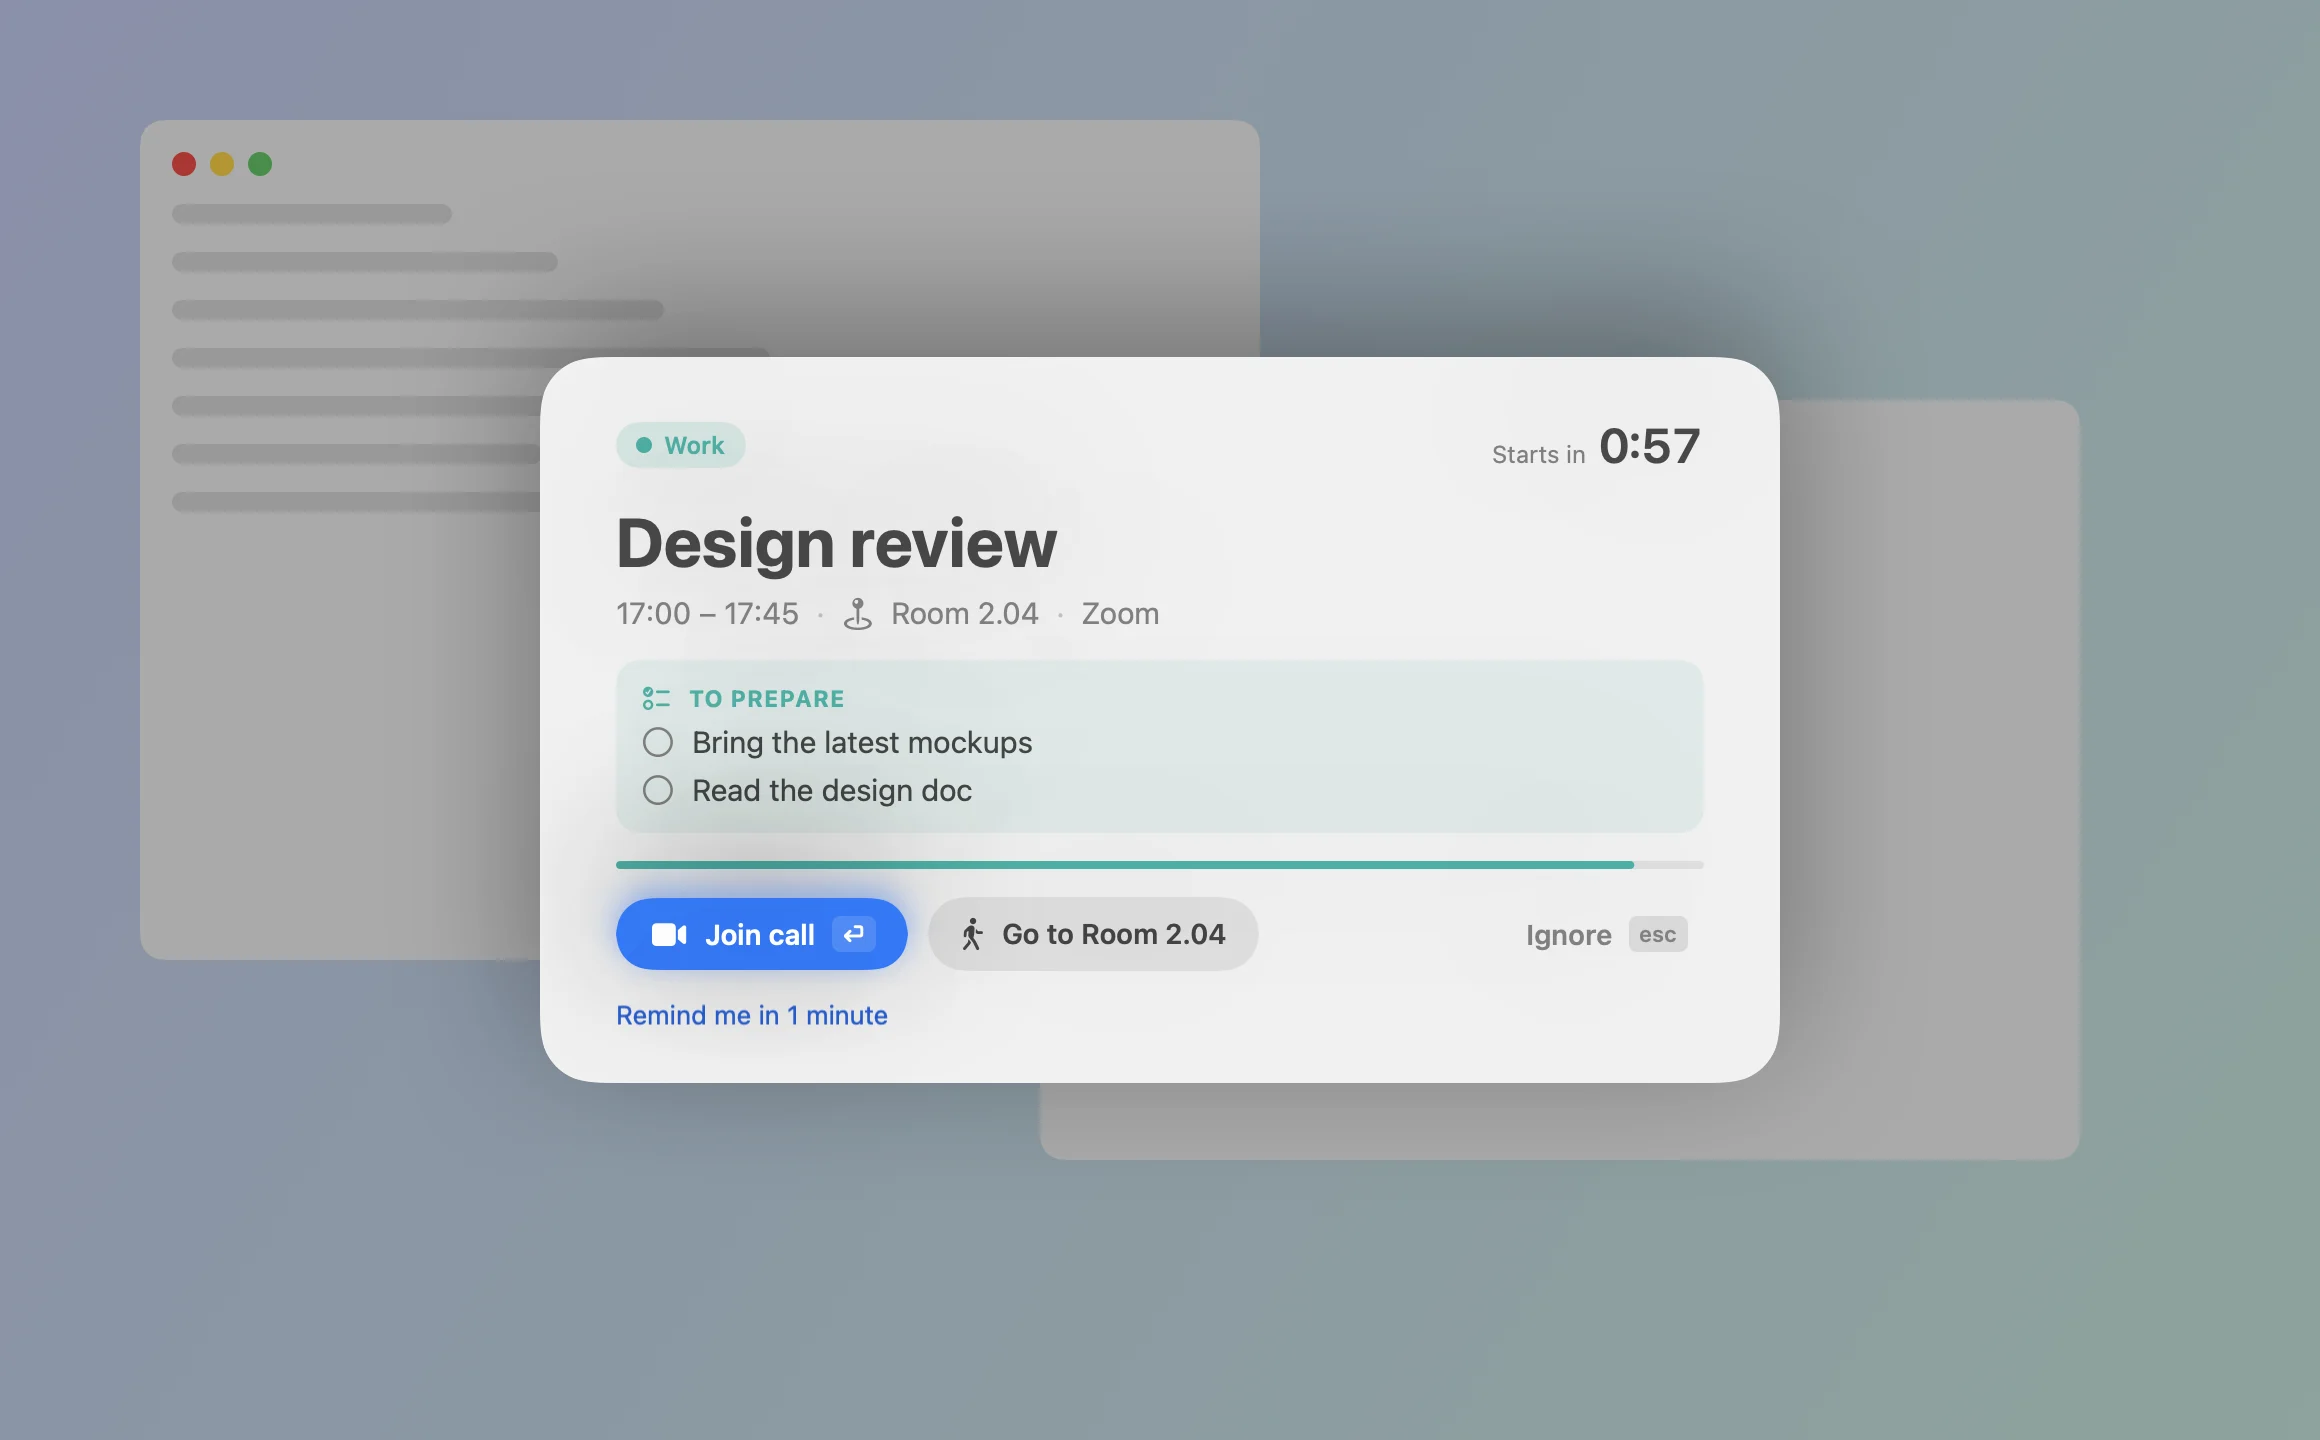
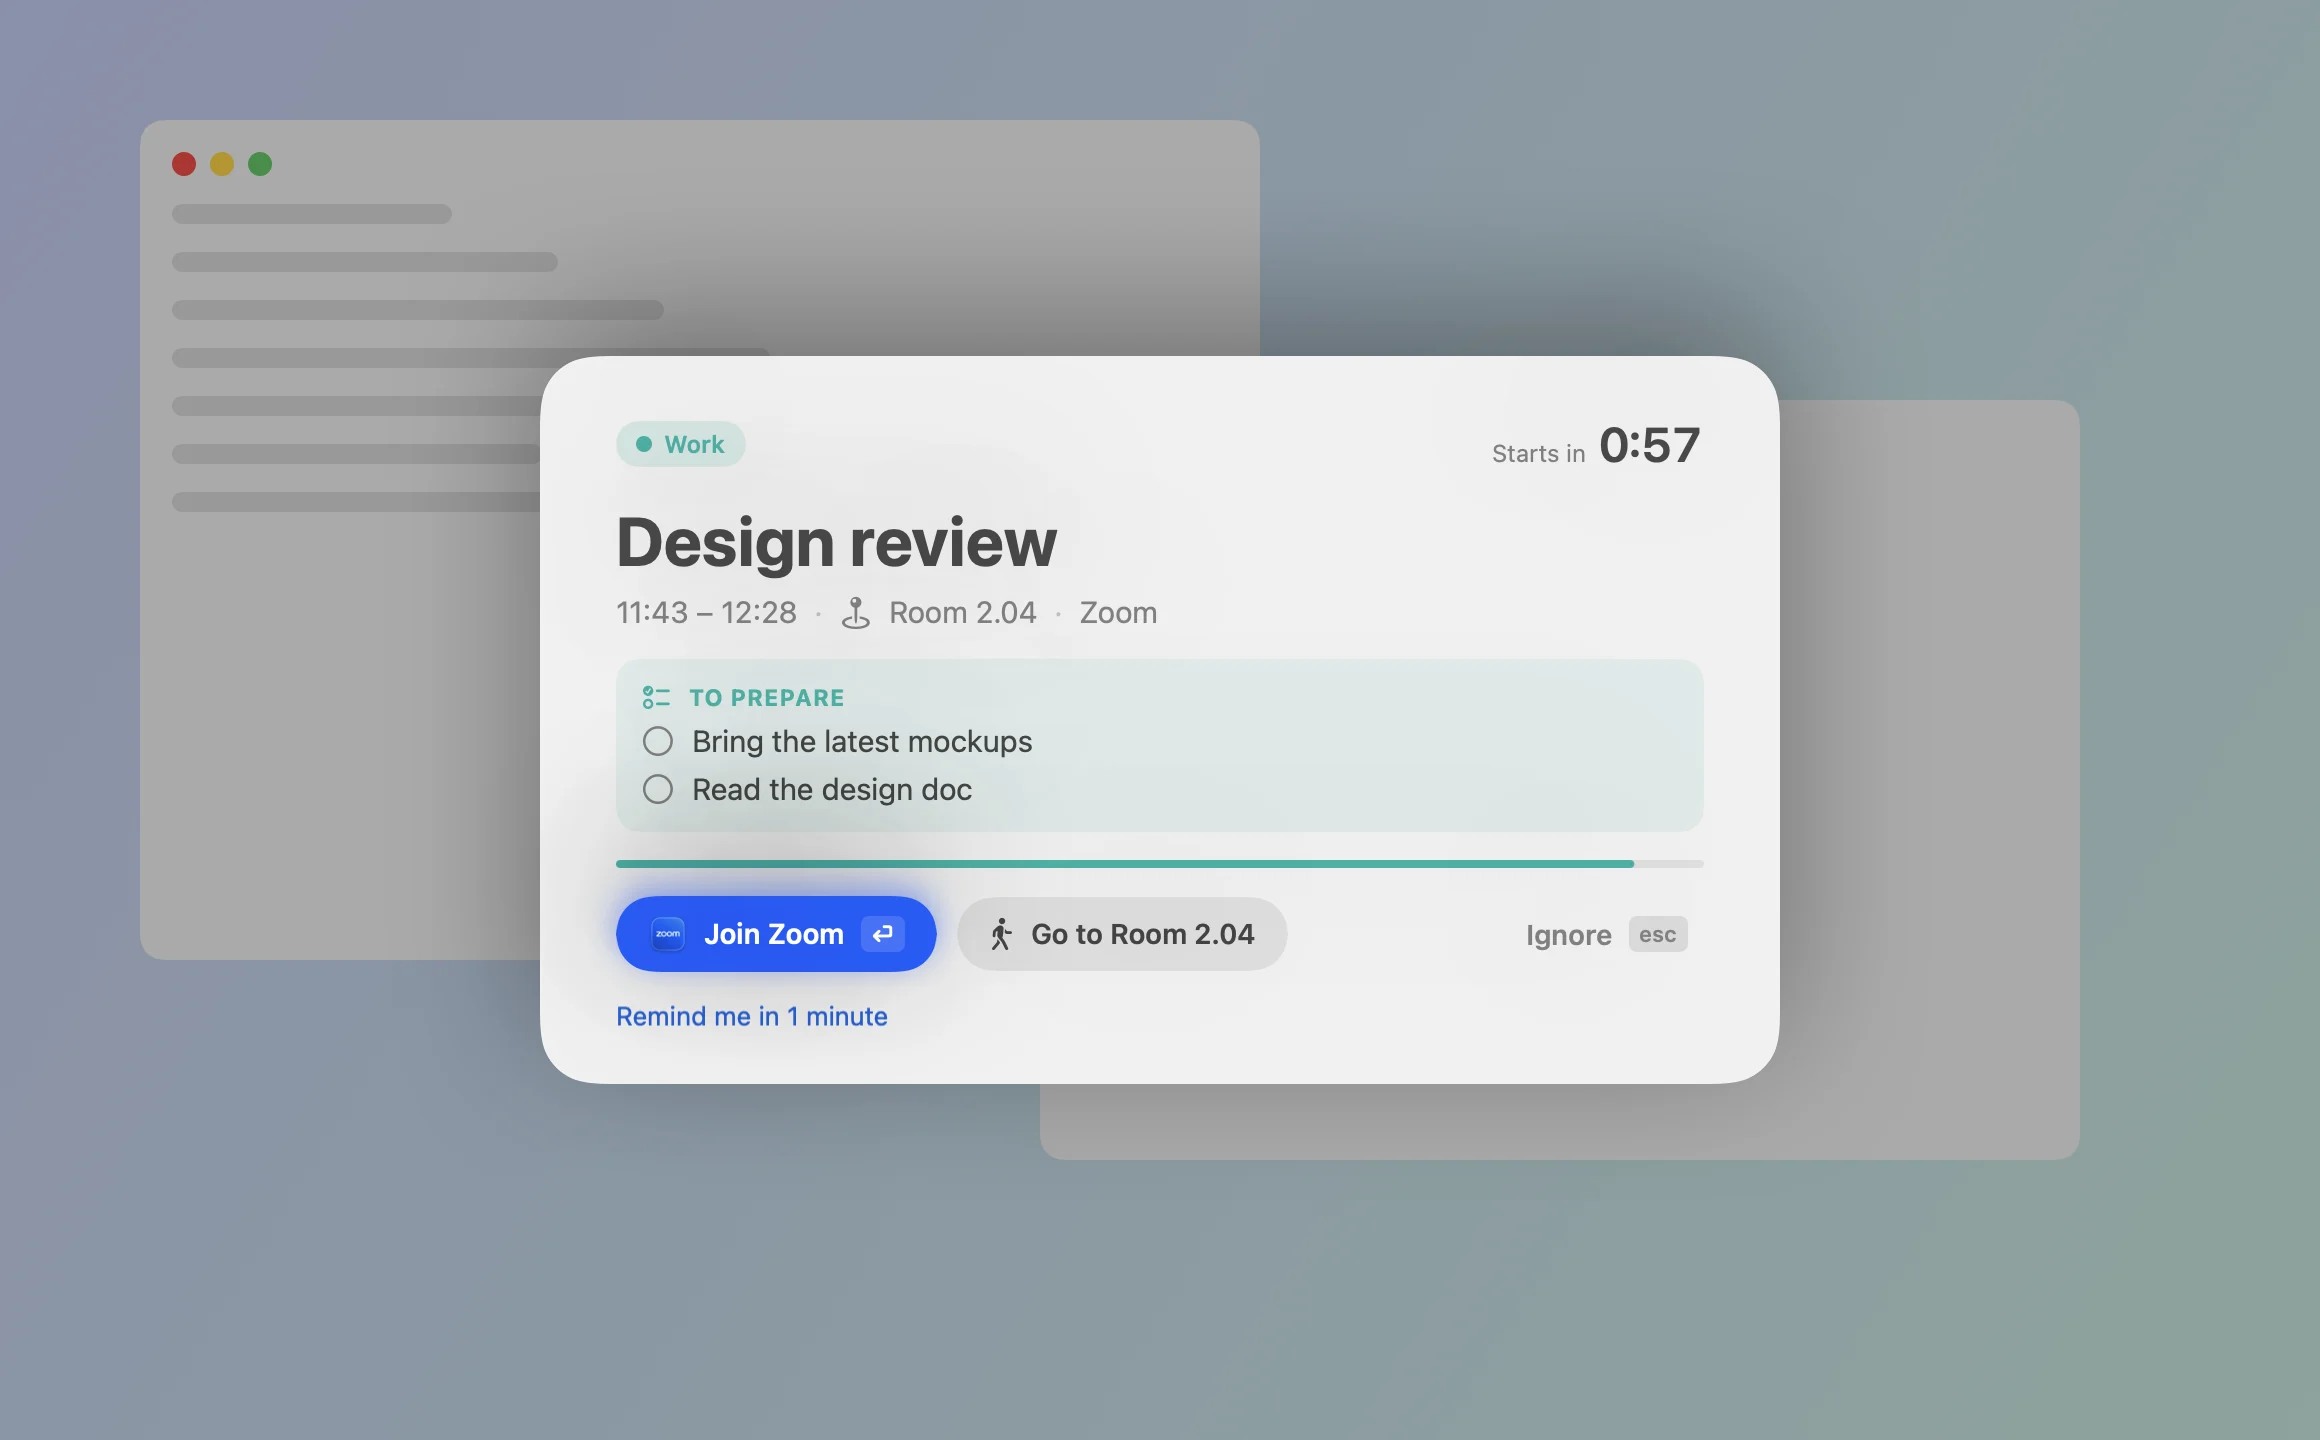
2.0.26: the alert's Join button in the meeting app's colors
The full-screen alert's Join button takes the color of the meeting's
service (Zoom blue, Teams purple, Google Meet yellow, Webex, GoTo Meeting,
Chime, Whereby, Jitsi), shows the service's app icon when it's installed
(a symbol otherwise) and names the service ("Join Zoom"). Text is black or
white, whichever reads better on the color. Other links keep the
accent-colored "Join call" button.

Changed region(s): [[0.2483, 0.5938, 0.5586, 0.6875], [0.2793, 0.375, 0.4966, 0.4375], [0.2793, 0.5, 0.4345, 0.5625]]

diff --git a/Sources/CalendarHub/EventAlertController.swift b/Sources/CalendarHub/EventAlertController.swift
@@ -335,15 +335,7 @@ struct EventAlertView: View {
 
             HStack(spacing: 10) {
                 if let url = event.meetingURL {
-                    Button {
-                        NSWorkspace.shared.open(url)
-                        dismiss()
-                    } label: {
-                        Label("Join call", systemImage: "video.fill")
-                        KeyCap("⏎")
-                    }
-                    .buttonStyle(AlertButtonStyle(prominent: true))
-                    .keyboardShortcut(.defaultAction)
+                    AlertJoinButton(url: url, dismiss: dismiss)
                     if let room {
                         Button(action: dismiss) {
                             Label("Go to \(room)", systemImage: "figure.walk").lineLimit(1)
@@ -495,21 +487,71 @@ private struct KeyCap: View {
     }
 }
 
-/// The alert's large, rounded buttons: filled in the accent color for the main action, gray
-/// for the others, and text only for Ignore.
+/// Join, in the colors of the meeting's service (Zoom blue, Teams purple, Meet yellow, …) with
+/// its app's icon, or in the accent color with a camera for any other link.
+private struct AlertJoinButton: View {
+    let url: URL
+    let dismiss: () -> Void
+
+    private var service: MeetingService? { MeetingService.of(url) }
+
+    var body: some View {
+        Button {
+            NSWorkspace.shared.open(url)
+            dismiss()
+        } label: {
+            Label {
+                Text(service.map { "Join \($0.name)" } ?? "Join call")
+            } icon: {
+                if let service, let icon = Self.appIcon(for: service) {
+                    Image(nsImage: icon).resizable().frame(width: 20, height: 20)
+                } else {
+                    Image(systemName: service?.symbol ?? "video.fill")
+                }
+            }
+            KeyCap("⏎")
+        }
+        .buttonStyle(AlertButtonStyle(prominent: true, fill: service.map { Color(rgb: $0.color) } ?? .accentColor,
+                                      text: service?.prefersDarkText == true ? .black : .white))
+        .keyboardShortcut(.defaultAction)
+    }
+
+    /// The icon of the first of the service's apps that's installed.
+    private static func appIcon(for service: MeetingService) -> NSImage? {
+        for id in service.bundleIDs {
+            if let app = NSWorkspace.shared.urlForApplication(withBundleIdentifier: id) {
+                return NSWorkspace.shared.icon(forFile: app.path)
+            }
+        }
+        return nil
+    }
+}
+
+private extension Color {
+    /// A color from 0xRRGGBB.
+    init(rgb: UInt32) {
+        self.init(.sRGB, red: Double((rgb >> 16) & 0xFF) / 255, green: Double((rgb >> 8) & 0xFF) / 255,
+                  blue: Double(rgb & 0xFF) / 255)
+    }
+}
+
+/// The alert's large, rounded buttons: filled for the main action (in the accent color unless
+/// given another), gray for the others, and text only for Ignore.
 private struct AlertButtonStyle: ButtonStyle {
     var prominent = false
     var plain = false
+    var fill: Color = .accentColor
+    var text: Color = .white
 
     func makeBody(configuration: Configuration) -> some View {
         HStack(spacing: 8) { configuration.label }
             .font(.system(size: 14, weight: .semibold))
-            .foregroundStyle(prominent ? AnyShapeStyle(.white) : plain ? AnyShapeStyle(.secondary) : AnyShapeStyle(.primary))
+            .foregroundStyle(prominent ? AnyShapeStyle(text) : plain ? AnyShapeStyle(.secondary) : AnyShapeStyle(.primary))
             .padding(.horizontal, plain ? 8 : 16)
             .padding(.vertical, 9)
             .background {
                 if prominent {
-                    Capsule().fill(Color.accentColor).shadow(color: Color.accentColor.opacity(0.45), radius: 8, y: 4)
+                    Capsule().fill(fill).shadow(color: fill.opacity(0.45), radius: 8, y: 4)
                 } else if !plain {
                     Capsule().fill(Color.primary.opacity(0.09))
                 }

diff --git a/Sources/CalendarHubCore/MeetingService.swift b/Sources/CalendarHubCore/MeetingService.swift
@@ -1,0 +1,96 @@
+import Foundation
+
+/// The online meeting service a link is for, so the alert's Join button can take on its
+/// colors and its app's icon.
+public enum MeetingService: String, CaseIterable, Sendable {
+    case zoom, teams, meet, webex, goTo, chime, whereby, jitsi
+
+    /// The service for a meeting link, or nil for a host none of these use.
+    public static func of(_ url: URL) -> MeetingService? {
+        let host = url.host?.lowercased() ?? ""
+        return allCases.first { service in
+            service.hosts.contains { host == $0 || host.hasSuffix("." + $0) }
+        }
+    }
+
+    var hosts: [String] {
+        switch self {
+        case .zoom: ["zoom.us", "zoomgov.com"]
+        case .teams: ["teams.microsoft.com", "teams.live.com"]
+        case .meet: ["meet.google.com"]
+        case .webex: ["webex.com"]
+        case .goTo: ["gotomeeting.com", "meet.goto.com"]
+        case .chime: ["chime.aws"]
+        case .whereby: ["whereby.com"]
+        case .jitsi: ["meet.jit.si"]
+        }
+    }
+
+    /// The name on the Join button: "Join Zoom", "Join Google Meet".
+    public var name: String {
+        switch self {
+        case .zoom: "Zoom"
+        case .teams: "Teams"
+        case .meet: "Google Meet"
+        case .webex: "Webex"
+        case .goTo: "GoTo Meeting"
+        case .chime: "Chime"
+        case .whereby: "Whereby"
+        case .jitsi: "Jitsi"
+        }
+    }
+
+    /// The service's brand color, as 0xRRGGBB.
+    public var color: UInt32 {
+        switch self {
+        case .zoom: 0x0B5CFF
+        case .teams: 0x5B5FC7
+        case .meet: 0xFBBC04
+        case .webex: 0x0072BB
+        case .goTo: 0xF68D2E
+        case .chime: 0x1F6FE0
+        case .whereby: 0xD6336C
+        case .jitsi: 0x1D76BA
+        }
+    }
+
+    /// Whether black text has more contrast on `color` than white (WCAG): Meet's yellow and
+    /// GoTo's orange are too light for white text.
+    public var prefersDarkText: Bool {
+        Self.relativeLuminance(color) > 0.179
+    }
+
+    /// The service's Mac apps, most likely first, whose icon goes on the button when one is
+    /// installed. Google Meet has none of its own, only Chrome's installable web app.
+    public var bundleIDs: [String] {
+        switch self {
+        case .zoom: ["us.zoom.xos"]
+        case .teams: ["com.microsoft.teams2", "com.microsoft.teams"]
+        case .meet: ["com.google.Chrome.app.kjgfgldnnfoeklkmfkjfagphfepbbdan"]
+        case .webex: ["Cisco-Systems.Spark", "com.webex.meetingmanager"]
+        case .goTo: ["com.logmein.goto", "com.logmein.GoToMeeting"]
+        case .chime: ["com.amazon.Amazon-Chime"]
+        case .whereby: []
+        case .jitsi: ["org.jitsi.jitsi-meet"]
+        }
+    }
+
+    /// The SF Symbol on the button when none of the service's apps is installed.
+    public var symbol: String {
+        switch self {
+        case .zoom, .meet, .jitsi, .whereby: "video.fill"
+        case .teams: "person.2.fill"
+        case .webex, .chime: "video.circle.fill"
+        case .goTo: "phone.fill"
+        }
+    }
+
+    /// WCAG relative luminance of an 0xRRGGBB color, from 0 (black) to 1 (white).
+    static func relativeLuminance(_ rgb: UInt32) -> Double {
+        func channel(_ shift: UInt32) -> Double {
+            let c = Double((rgb >> shift) & 0xFF) / 255
+            return c <= 0.03928 ? c / 12.92 : pow((c + 0.055) / 1.055, 2.4)
+        }
+        return 0.2126 * channel(16) + 0.7152 * channel(8) + 0.0722 * channel(0)
+    }
+}

diff --git a/Tests/CalendarHubCoreTests/MeetingServiceTests.swift b/Tests/CalendarHubCoreTests/MeetingServiceTests.swift
@@ -1,0 +1,34 @@
+import CalendarHubCore
+import XCTest
+
+final class MeetingServiceTests: XCTestCase {
+    private func service(_ string: String) -> MeetingService? {
+        MeetingService.of(URL(string: string)!)
+    }
+
+    func testRecognizesTheCommonServices() {
+        XCTAssertEqual(service("https://acme.zoom.us/j/123"), .zoom)
+        XCTAssertEqual(service("https://zoomgov.com/j/123"), .zoom)
+        XCTAssertEqual(service("https://teams.microsoft.com/l/meetup-join/19%3a"), .teams)
+        XCTAssertEqual(service("https://teams.live.com/meet/123"), .teams)
+        XCTAssertEqual(service("https://meet.google.com/abc-defg-hij"), .meet)
+        XCTAssertEqual(service("https://acme.webex.com/meet/pat"), .webex)
+        XCTAssertEqual(service("https://global.gotomeeting.com/join/123"), .goTo)
+        XCTAssertEqual(service("https://meet.goto.com/123"), .goTo)
+        XCTAssertEqual(service("https://app.chime.aws/meetings/123"), .chime)
+        XCTAssertEqual(service("https://whereby.com/room"), .whereby)
+        XCTAssertEqual(service("https://meet.jit.si/room"), .jitsi)
+    }
+
+    func testOtherHostsGetTheDefaultButton() {
+        XCTAssertNil(service("https://notzoom.us/j/1"))
+        XCTAssertNil(service("https://example.com/meeting"))
+    }
+
+    func testTextColorFollowsTheBrandColor() {
+        XCTAssertTrue(MeetingService.meet.prefersDarkText)
+        XCTAssertTrue(MeetingService.goTo.prefersDarkText)
+        XCTAssertFalse(MeetingService.zoom.prefersDarkText)
+        XCTAssertFalse(MeetingService.teams.prefersDarkText)
+    }
+}

diff --git a/README.md b/README.md
@@ -8,7 +8,7 @@
 
 A small Mac menu bar app that copies the meetings from your other calendars into the one your colleagues book you through, so nobody books you over a meeting they can't see. It also keeps your day in view: the next meeting a click away, a nudge when it starts, and the tasks to prepare it.
 
-[![Version 2.0.25](https://img.shields.io/badge/version-2.0.25-2563EB)](Support/Info.plist)
+[![Version 2.0.26](https://img.shields.io/badge/version-2.0.26-2563EB)](Support/Info.plist)
 [![Build](https://github.com/neteinstein/Calendar-Hub/actions/workflows/build.yml/badge.svg)](https://github.com/neteinstein/Calendar-Hub/actions/workflows/build.yml)
 ![macOS 14+](https://img.shields.io/badge/macOS-14%2B-111?logo=apple&logoColor=white)
 [![Homebrew tap](https://img.shields.io/badge/homebrew-neteinstein%2Ftap-FBB040?logo=homebrew&logoColor=white)](https://github.com/neteinstein/homebrew-tap)
